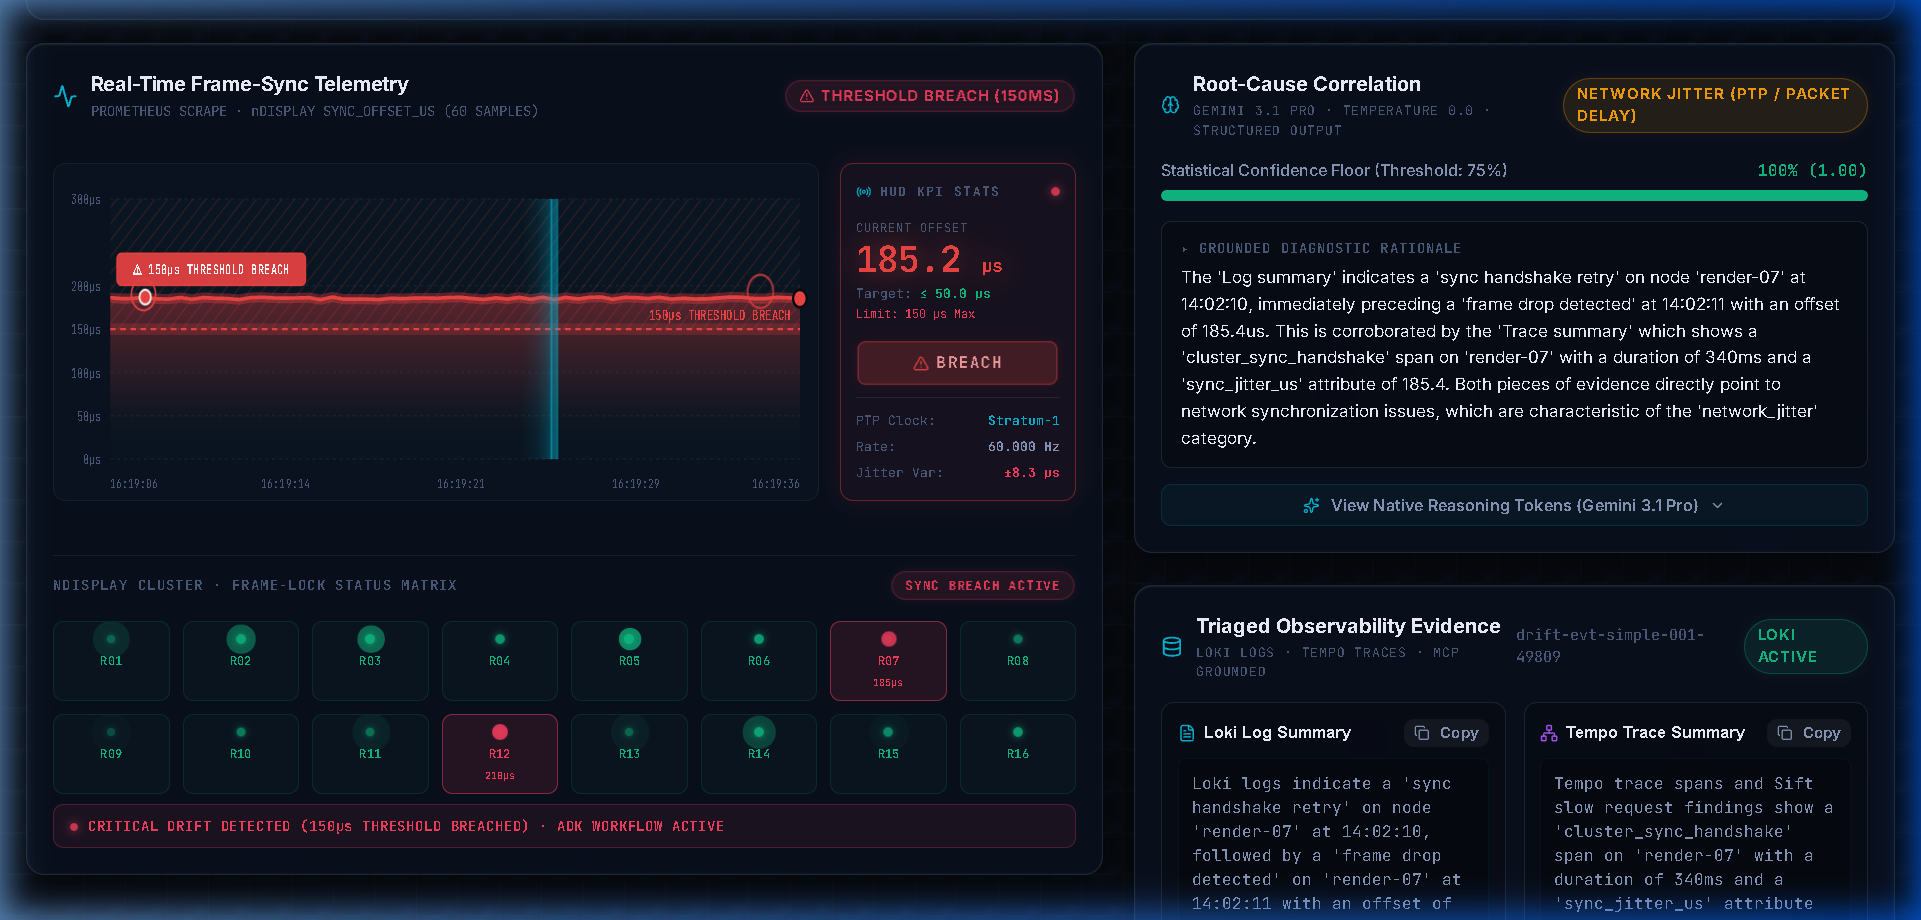
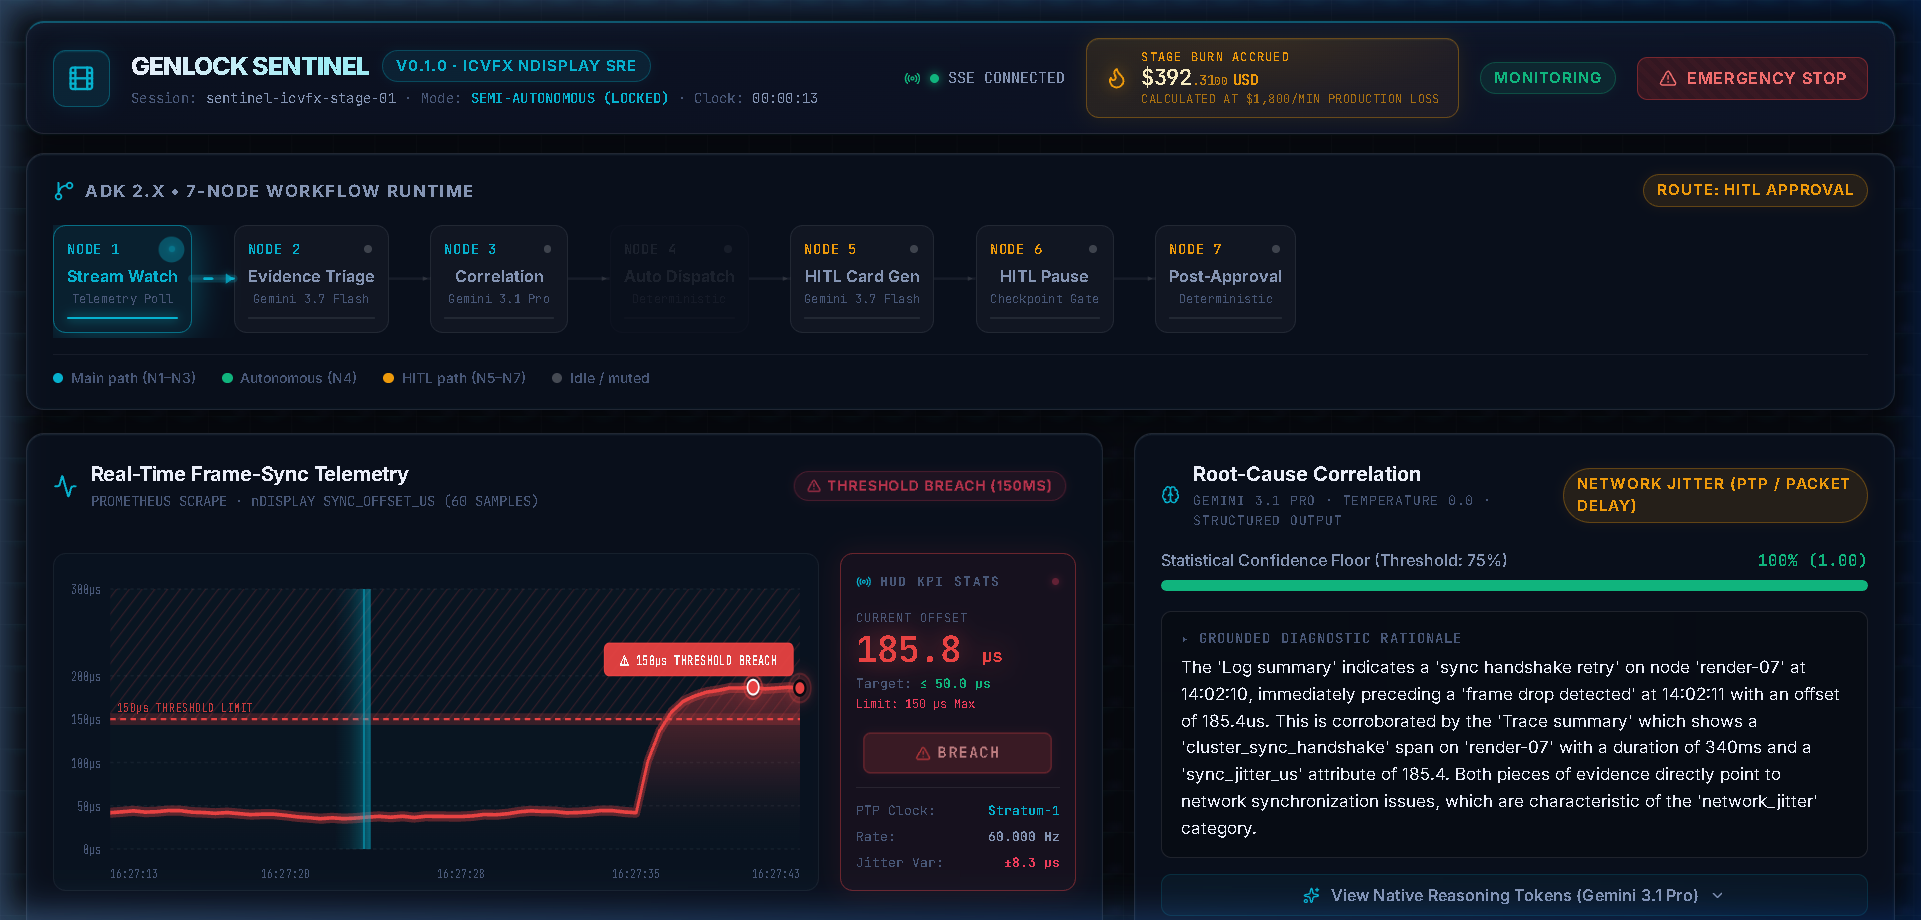
Step 29: Fix Detached SVG Pulse Rings & Threshold Text Clutter in SyncOffsetChart

diff --git a/frontend/src/components/SyncOffsetChart.tsx b/frontend/src/components/SyncOffsetChart.tsx
@@ -422,16 +422,17 @@ export const SyncOffsetChart: React.FC<SyncOffsetChartProps> = ({
               strokeDasharray="5 4"
             />
             <text
-              x={PL + CW - 8}
-              y={threshY - 6}
+              x={PL + 6}
+              y={threshY - 5}
               fill="#ef4444"
-              fontSize="9.5"
+              fontSize="8.5"
               fontWeight="700"
               fontFamily="var(--font-mono)"
-              textAnchor="end"
-              letterSpacing="0.04em"
+              textAnchor="start"
+              letterSpacing="0.05em"
+              opacity={0.85}
             >
-              150µs THRESHOLD BREACH
+              150µs THRESHOLD LIMIT
             </text>
 
             {/* ── Area Gradient Fill Underneath ───────────────────────── */}
@@ -464,27 +465,44 @@ export const SyncOffsetChart: React.FC<SyncOffsetChartProps> = ({
               clipPath="url(#waveformClip)"
             />
 
-            {/* ── Live Endpoint Dot ────────────────────────────────────── */}
+            {/* ── Live Endpoint Dot with Native SVG Center-Locked Breathing ── */}
             {points.length > 0 && (
               <g>
                 <circle
                   cx={points[points.length - 1].x}
                   cy={points[points.length - 1].y}
-                  r={isLatestBreached ? 6 : 5}
+                  r={isLatestBreached ? 5 : 4}
                   fill={isLatestBreached ? "#ef4444" : "#06b6d4"}
                   stroke="#070A11"
                   strokeWidth={2}
+                  style={{
+                    filter: `drop-shadow(0 0 6px ${
+                      isLatestBreached ? "#ef4444" : "#06b6d4"
+                    })`,
+                  }}
                 />
                 <circle
                   cx={points[points.length - 1].x}
                   cy={points[points.length - 1].y}
-                  r={isLatestBreached ? 12 : 9}
+                  r={isLatestBreached ? 7 : 6}
                   fill="none"
                   stroke={isLatestBreached ? "#ef4444" : "#06b6d4"}
                   strokeWidth={1.5}
-                  opacity={0.65}
-                  className="pulse-active"
-                />
+                  opacity={0.7}
+                >
+                  <animate
+                    attributeName="r"
+                    values={isLatestBreached ? "5;10;5" : "4;8;4"}
+                    dur="2s"
+                    repeatCount="indefinite"
+                  />
+                  <animate
+                    attributeName="opacity"
+                    values="0.8;0.2;0.8"
+                    dur="2s"
+                    repeatCount="indefinite"
+                  />
+                </circle>
               </g>
             )}
 
@@ -502,7 +520,7 @@ export const SyncOffsetChart: React.FC<SyncOffsetChartProps> = ({
                   strokeDasharray="2 2"
                   opacity={0.6}
                 />
-                {/* Glowing marker dot at the highest peak */}
+                {/* Glowing solid marker dot at the highest peak */}
                 <circle
                   cx={peakPt.x}
                   cy={peakPt.y}
@@ -510,16 +528,31 @@ export const SyncOffsetChart: React.FC<SyncOffsetChartProps> = ({
                   fill="#ef4444"
                   stroke="#ffffff"
                   strokeWidth={1.5}
+                  style={{ filter: "drop-shadow(0 0 8px #ef4444)" }}
                 />
+                {/* Concentric native SVG pulse ring locked to peak center */}
                 <circle
                   cx={peakPt.x}
                   cy={peakPt.y}
-                  r={11}
+                  r={7}
                   fill="none"
                   stroke="#ef4444"
                   strokeWidth={1.5}
-                  className="pulse-active"
-                />
+                  opacity={0.75}
+                >
+                  <animate
+                    attributeName="r"
+                    values="5;11;5"
+                    dur="1.8s"
+                    repeatCount="indefinite"
+                  />
+                  <animate
+                    attributeName="opacity"
+                    values="0.9;0.15;0.9"
+                    dur="1.8s"
+                    repeatCount="indefinite"
+                  />
+                </circle>
 
                 {/* Floating Badge above Peak */}
                 <rect
